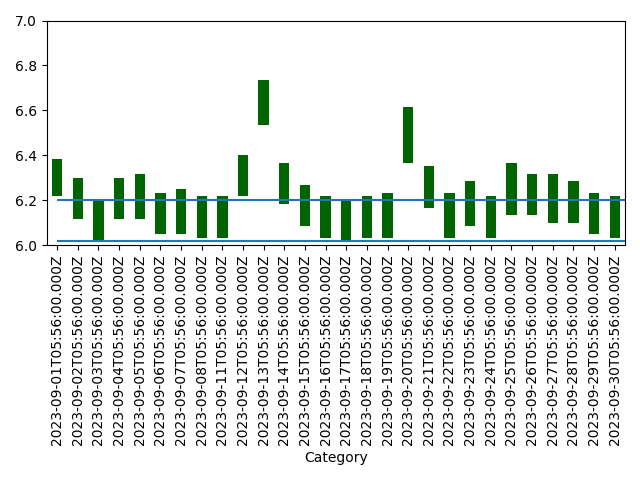
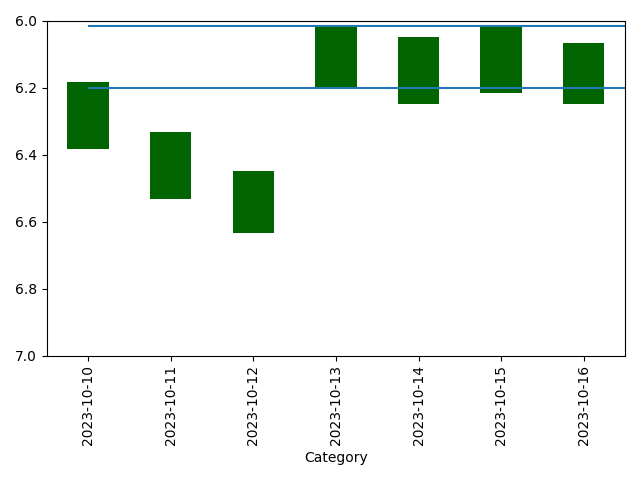
dynamic input from cmd-args

diff --git a/punctuality-chart.py b/punctuality-chart.py
@@ -1,11 +1,24 @@
+#! /bin/python3
+
 import requests
 import json
 
 import pandas as pd
-import numpy as np
 import matplotlib.pyplot as plt
 
-import time
+import argparse
+import urllib.parse
+
+import datetime
+
+# get the args
+parser = argparse.ArgumentParser("punctuality_chart.py", description="A script to plot the punctuality of a train every day.")
+parser.add_argument("--train", help="The full train number to be checked. See bahn.expert for Regional Train full numbers", type=str)
+parser.add_argument("--days", help="Number of days to look into the past", type=int, default=7)
+parser.add_argument("--departure", help="The departure station name", type=str)
+parser.add_argument("--arrival", help="The arrival station name", type=str)
+args = parser.parse_args()
+startdate = datetime.datetime.now().date() - datetime.timedelta(days=args.days-1) #zieht hier 1 zu viel ab.
 
 # get the data
 
@@ -13,33 +26,51 @@ headers = {
     'authority': 'bahn.expert',
     'accept': 'application/json, text/plain, */*',
     'accept-language': 'en-GB,en;q=0.9,en-US;q=0.8,de;q=0.7',
-    'referer': 'https://bahn.expert/details/S%2038318/2023-10-11T05:24:00.000Z?administration=801539',
+    'referer': 'https://bahn.expert/details/'+urllib.parse.quote_plus(args.train)+'/'+startdate.isoformat()+'T00:00:00.000Z?administration=801539',
 }
 
 date = []
+for i in range(args.days): date.append(startdate + datetime.timedelta(days=i))
 departure = []
 arrival = []
 
-#                               ⬇ skip 9 and 10 because they are error prone
-for i in [1, 2, 3, 4, 5, 6, 7, 8, 11, 12, 13, 14, 15, 16, 17, 18, 19, 20, 21, 22, 23, 24, 25, 26, 27, 28, 29, 30]:
+for d in date:
+    search_arrival = False
+
     params = {
-        'initialDepartureDate': '2023-09-'+str(i).zfill(2)+'T05:56:00.000Z',
+        'initialDepartureDate': d.isoformat()+'T00:00:00.000Z',
         'administration': '801539',
     }
+    response = requests.get(
+        'https://bahn.expert/api/journeys/v1/details/'+urllib.parse.quote_plus(args.train),
+        params=params, headers=headers
+    )
+    print(str(d.day) + ": " + str(response))
 
-    response = requests.get('https://bahn.expert/api/journeys/v1/details/S%2038318', params=params, headers=headers)
-    print(params['initialDepartureDate'] + ": " + str(response))
+    responsejson = json.loads(response.content)
 
-    date.append(params["initialDepartureDate"])
-    # explainer:     ⬇ read jsonfrom api     ⬇ 9th stop is WiesWdf   ⬇ real ⬇ only the hour timestamp
-    departuretime = json.loads(response.content)["stops"][11]["departure"]["time"][11:16]
-    arrivaltime = json.loads(response.content)["stops"][14]["arrival"]["time"][11:16]
+    for i in range(len(responsejson["stops"])):
+        if not search_arrival and responsejson["stops"][i]["station"]["name"] == args.departure:
+            # explainer:                                ⬇ real time ⬇ only the hour:minute timestamp
+            departuretime = responsejson["stops"][i]["departure"]["time"][11:16]
+            planneddeparturetime = responsejson["stops"][i]["departure"]["scheduledTime"][11:16]
+            print("found departure time: " + departuretime)
+            search_arrival = True
+       
+        elif search_arrival and responsejson["stops"][i]["station"]["name"] == args.arrival:
+            arrivaltime = responsejson["stops"][i]["arrival"]["time"][11:16]
+            plannedarrivaltime = responsejson["stops"][i]["arrival"]["scheduledTime"][11:16]
+            print("found arrival time: " + arrivaltime)
+            break
 
     departuretimeh = int(departuretime[:2]) + int(departuretime[3:])/60
     arrivaltimeh = int(arrivaltime[:2]) + int(arrivaltime[3:])/60
 
     departure.append(departuretimeh)
     arrival.append(arrivaltimeh)
+
+planneddeparturetime = int(planneddeparturetime[:2]) + int(planneddeparturetime[3:])/60
+plannedarrivaltime = int(plannedarrivaltime[:2]) + int(plannedarrivaltime[3:])/60
 
 # plot the data
 
@@ -51,8 +82,9 @@ ax = df.plot(kind='bar', y='Height', x='Category', bottom=df['Lower'],
              color='darkgreen', legend=False)
 ax.axhline(0, color='black')
 ax.set_ylim(6, 7) #sets the y range
+ax.invert_yaxis()
 
-ax.hlines(y=[6+(1/60),6+(12/60)], xmin=[0,0], xmax=[len(arrival),len(arrival)]) # hline for wdf departure and ma-arena arrival
+ax.hlines(y=[planneddeparturetime,plannedarrivaltime], xmin=[0,0], xmax=[len(arrival),len(arrival)]) # hline for planned times
 
 plt.tight_layout()
 plt.show()

diff --git a/Readme.md b/Readme.md
@@ -1,7 +1,31 @@
 # Commuter Punctuality Chart
 
-so my commuter train was so consistently late, I wanted to plot that timing.
+So my commuter train was so consistently late, I wanted to plot that timing to show it to everyone.
 
-currently hardcoded plots the 08:01 S3 38318 Wiesloch -> Heidelberg Hbf for all of September
+## usage
+
+```
+punctuality_chart.py [-h] [--train TRAIN] [--days DAYS] [--departure DEPARTURE] [--arrival ARRIVAL]
+
+options:
+  -h, --help            show this help message and exit
+  --train TRAIN         The full train number to be checked. See bahn.expert for Regional Train full numbers
+  --days DAYS           Number of days to look into the past
+  --departure DEPARTURE
+                        The departure station name
+  --arrival ARRIVAL     The arrival station name
+```
+
+### Example
+
+```
+python .\punctuality-chart.py --train "S 38318" --days 7 --departure "Wiesloch-Walldorf" --arrival "Heidelberg Hbf"
+```
 
 ![](example_chart.png)
+
+## Dependencies
+
+```
+pip install -r .\requirements.txt
+```
